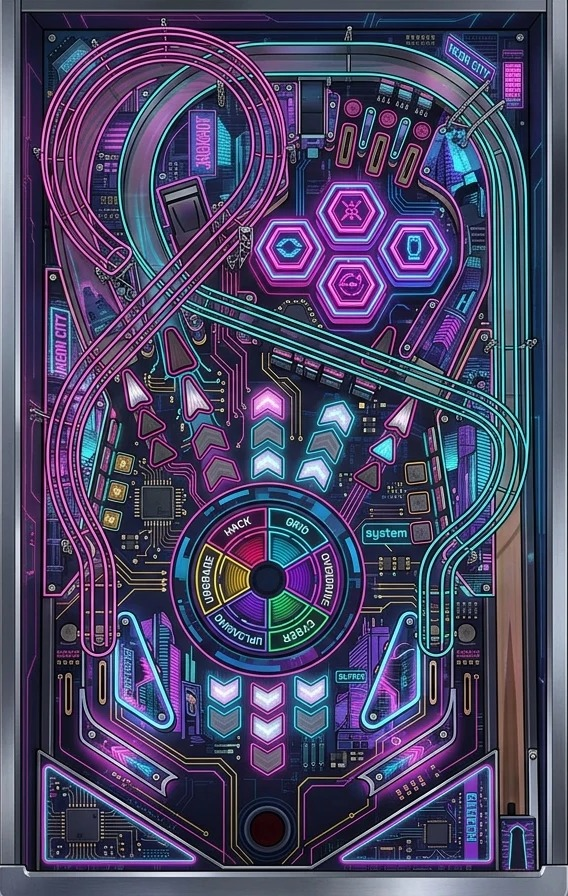
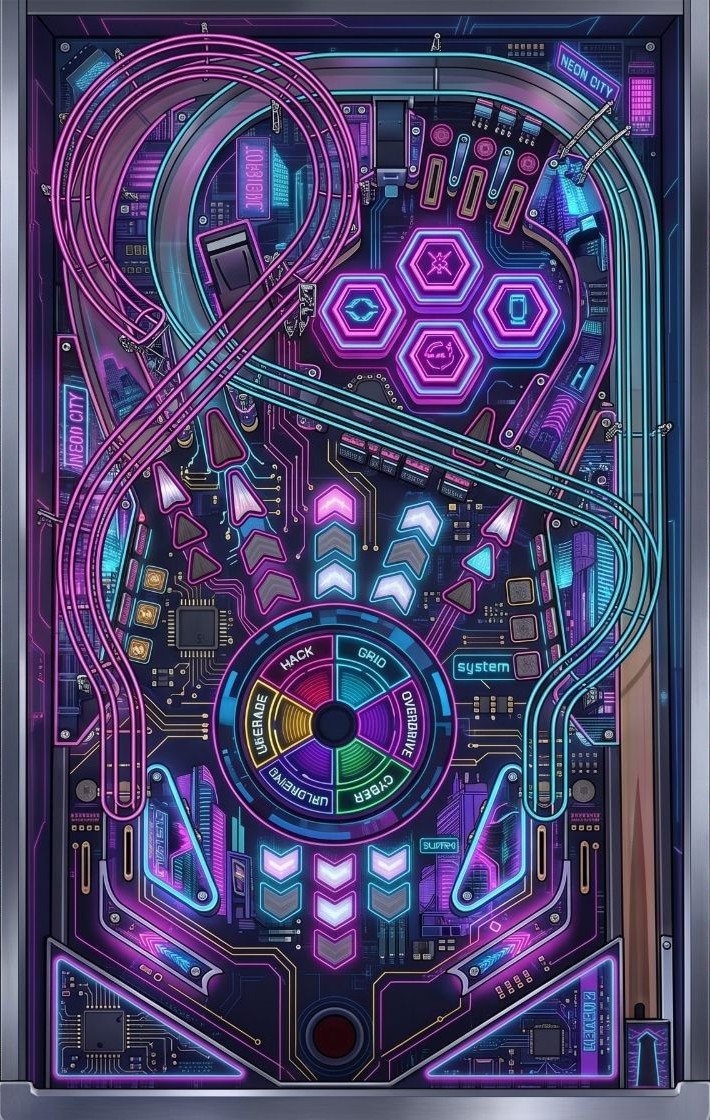
Cyber City: sharper upscaled playfield art
Claude-Session: https://claude.ai/code/session_01XMMuWcreeb3pHvafFdAffU

diff --git a/CLAUDE.md b/CLAUDE.md
@@ -40,7 +40,7 @@ books live in their own repos; some live as folders inside this repo.
   keep it that way rather than copying any existing game.
 - **Cyber City Pinball** — `/pinball/cyber/index.html`, added 2026-11-16. A
   neon table built on Sandy's own AI-generated playfield art
-  (`pinball/cyber/playfield.jpg`, 568x896, straight top-down). All physics
+  (`pinball/cyber/playfield.jpg`, 710x1120 upscale of the original 568x896, straight top-down; the game still uses 568x896 logical coordinates and scales the image down). All physics
   geometry is in that image's pixel coordinates; append `#debug` to the URL
   to draw the walls/bumpers/ramp paths over the art when re-aligning.
   Sandy can supply more art (backglass, sprites, higher-res playfield) on
